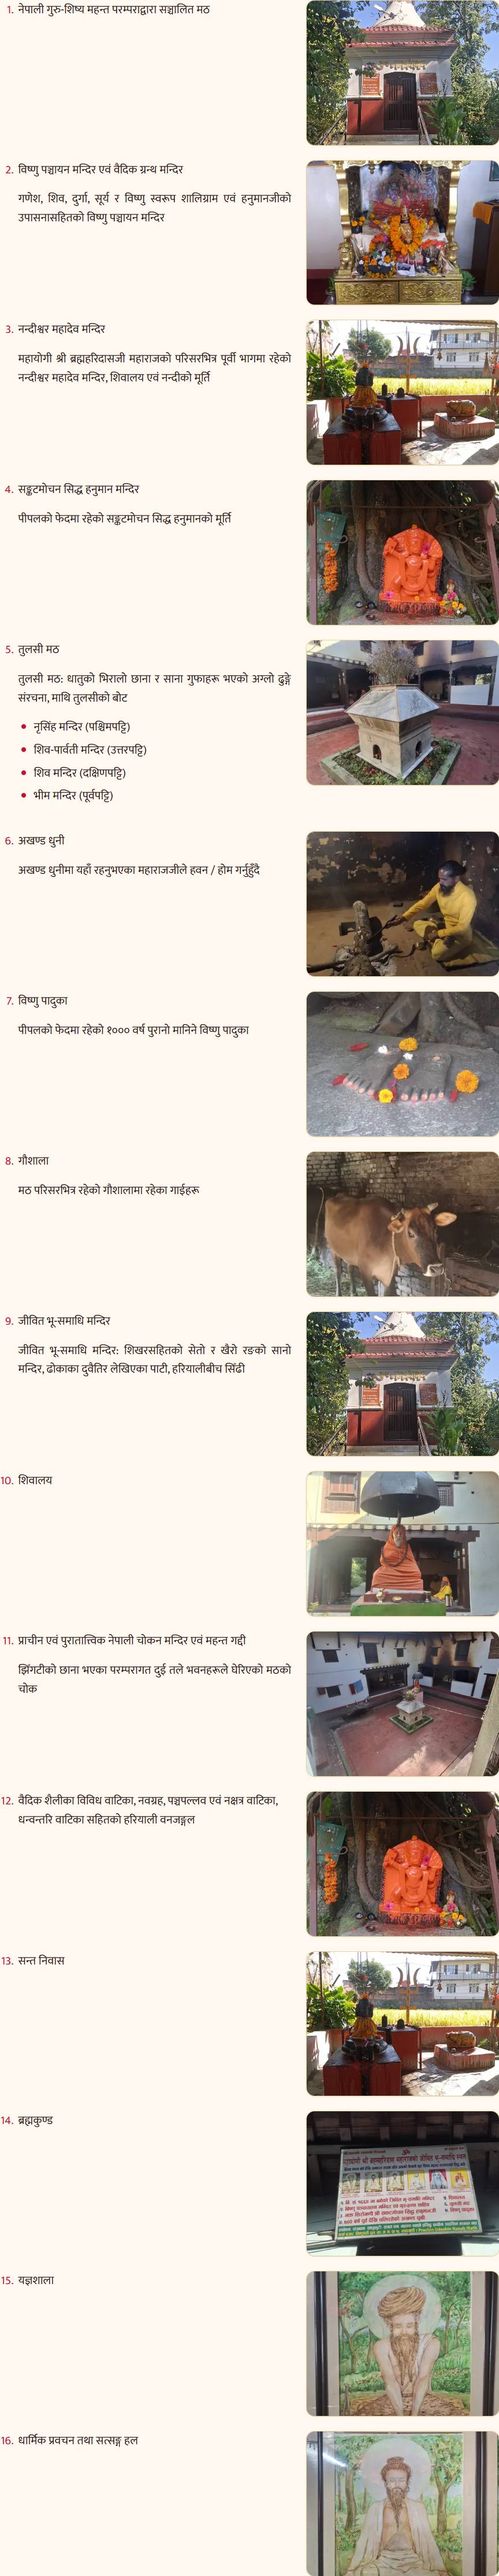
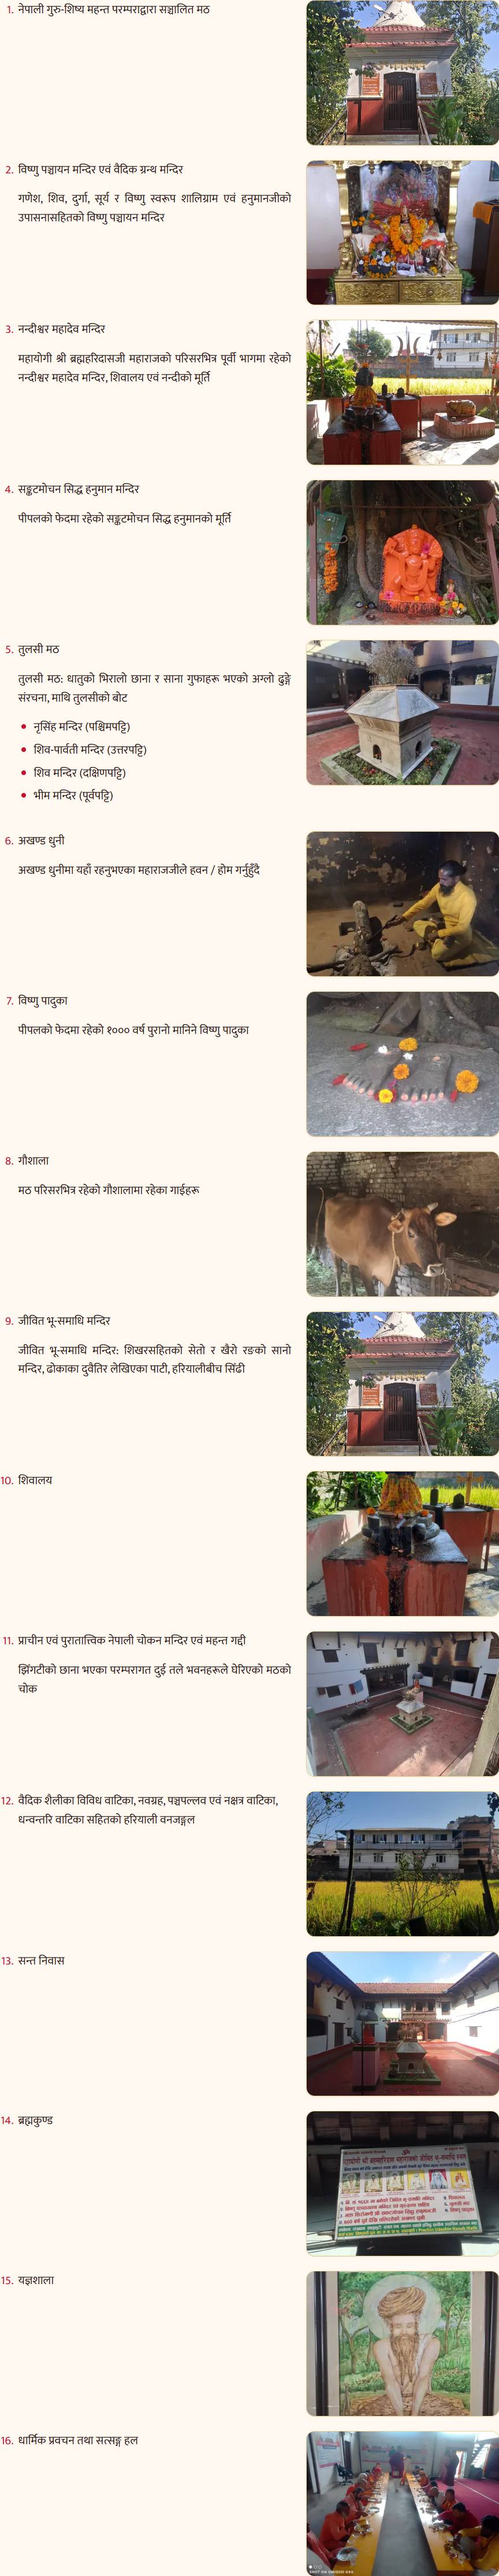
Nanak heritage list: items 10, 12, 13, 16 from the team's pictures
10 Shivalinga and trishul (new gallery photo), 12 paddy field, 13 courtyard
view, 16 bhandara: re-added to the gallery with consent from the people shown
and the photographer's permission (no credit wanted). Consent records, notes
and screenshots updated.

Changed region(s): [[0.5938, 0.6861, 1.0, 0.8109], [0.5938, 0.9356, 1.0, 1.0], [0.5938, 0.5614, 1.0, 0.6549]]

diff --git a/MISSING_INFO.md b/MISSING_INFO.md
@@ -77,7 +77,8 @@ Most of the missing Mhepi Ajima content, and all ward information, is probably i
 - [ ] **Typos in the Nepali to check (not changed):** "बुद्धिदास महाराजको तिथ" (तिथि); "वि.सं. २०८० असाेज" typed as ा+े (असोज); "वासन्तीक नवरात्र" (वासन्तिक); "विष्णु पञ्चायन" in 4 places (पञ्चायतन elsewhere); "संवर्धन  एवं" double space; "नेपाली चोकन मन्दिर" (चोक?).
 - [ ] **Photos beside "यहाँ भएका सम्पदाहरू" / "The Heritage Here"** (`content/section-photos.json`): matched by Claude using the guru's new photo descriptions. Confirm, especially item 11 (ancient Nepali chok temple and mahant gaddi → `main-courtyard`, the courtyard of the two-storey buildings) and item 2 (`gilded-shrine`, described as the Vishnu Panchayatan temple). No photo yet for items 1, 10 and 12–16.
   - [x] **Item 11 description**: turned on (17 Nov 2026) on confirmation that the courtyard photo matches "the ancient Nepali chok temple and the mahant gaddi". All nine items now show their photo's description.
-  - [x] **Items 1, 10, 12–16** (17 Nov 2026, chosen by the team from the gallery's 4-column grid): 1 samadhi temple, 10 statue of Mahant Buddhidas, 12 Hanuman shrine under the peepal tree, 13 Nandi & Shivalinga, 14 heritage signboard, 15 painting of Brahmaharidas, 16 painting of Gothalramdas, all **without** captions. Now every item has a photo. Three photos appear twice in the list (samadhi temple: 1 and 9; Hanuman shrine: 4 and 12; Nandi & Shivalinga: 3 and 13); swap them for photos of the actual places when the team has them.
+  - [x] **Items 10, 12, 13, 16 replaced (17 Nov 2026, from the team's pictures):** 10 Shivalinga and trishul (new: `shivalinga-trishul.webp`), 12 paddy field, 13 courtyard view, 16 bhandara (re-added). Nepali alt text of `shivalinga-trishul.webp` is by Claude; please check.
+  - [x] **Items 1, 10, 12–16** (superseded for 10, 12, 13, 16 by the line above) (17 Nov 2026, chosen by the team from the gallery's 4-column grid): 1 samadhi temple, 10 statue of Mahant Buddhidas, 12 Hanuman shrine under the peepal tree, 13 Nandi & Shivalinga, 14 heritage signboard, 15 painting of Brahmaharidas, 16 painting of Gothalramdas, all **without** captions. Now every item has a photo. Three photos appear twice in the list (samadhi temple: 1 and 9; Hanuman shrine: 4 and 12; Nandi & Shivalinga: 3 and 13); swap them for photos of the actual places when the team has them.
 - [ ] **Alternative name "Siddheshwar Mahadev" — needs a source.** Given by the ward team (13 Nov 2026) but not confirmed. It was removed from the chatbot topic label in the Phase 9 review and is **not shown anywhere** on the site.
   - A search of raw-data found **no occurrence** of Siddheshwar / सिद्धेश्वर (or its spelling variants) in the docx, the transcribed signboards and inscriptions, or any file name. The three web sources don't mention it either.
   - [ ] Give a source for the name (a document, signboard or interview) before it is used anywhere on the site.
@@ -100,7 +101,7 @@ Most of the missing Mhepi Ajima content, and all ward information, is probably i
   - [x] **Ward office**: about 27.7290, 85.3016 (Balaju, Kathmandu-16 on OSM). It is marked approximate in `content/ward.json` and on the map. An exact point would allow a small embedded map in the home Contact section.
 - **Ward boundary on the map:** moved to [docs/ROADMAP.md](docs/ROADMAP.md) (Later). The boundary data is still not in the raw data.
 - [x] **Photo credit line**: "Photos: Samyojan, 2026" / "तस्बिर: संयोजन, २०२६" (`content/credits.json`). It is shown on the detail pages, the gallery page and inside the lightbox.
-- [ ] **Bhandara photo**: the `IMG-*-WA*.jpg` files are WhatsApp forwards, several watermarked "SHOT ON UMIDIGI G9A", so someone outside the team took them. `bhandara.webp` (from `IMG-20261104-WA0022.jpg`) was **removed from the site** in Phase 6; the original stays in raw-data. **Re-add only with the photographer's permission and a "Photo courtesy of …" credit.** No other WhatsApp photo is published.
+- [x] **Bhandara photo — re-added 17 Nov 2026.** The team confirmed that the people shown agree and that the photographer gave permission and wants no credit line. It is back in the Nanak Math gallery and beside list item 16. Earlier note: the `IMG-*-WA*.jpg` files are WhatsApp forwards, several watermarked "SHOT ON UMIDIGI G9A", so someone outside the team took them. `bhandara.webp` (from `IMG-20261104-WA0022.jpg`) was **removed from the site** in Phase 6; the original stays in raw-data. **Re-add only with the photographer's permission and a "Photo courtesy of …" credit.** No other WhatsApp photo is published.
 - [x] **Consent decisions for people in photos**: all nine photos in `docs/photos-with-people.md` were set to `"approved"` in `content/photo-consent.json` on 12 Nov 2026 ("use photos with people"). Changing one to `"removed"` still hides it everywhere. The strict build fails if any photo is ever `"pending"` again.
   - Not used: the Mhepi team group photo (`Mhepi Ajima/Photo/20261104_085758.heic`), a team selfie (`Guru Nanak Mantha/Photo/20261104_100241.heic`), and portraits of an elderly sadhu (`IMG_20261104_095808.jpg`, `IMG_20261104_095816.jpg`, `IMG_20261104_095816_1.jpg`).
 - [ ] **Permission** from the math's mahant and the Mhepi committee to publish photos of the inner shrines

diff --git a/docs/screenshots/nanak-list-photos/README.md b/docs/screenshots/nanak-list-photos/README.md
@@ -2,24 +2,19 @@
 
 Captured on 17 Nov 2026 in Microsoft Edge from the strict `npm run build`, branch `content/nanak-list-photos`. The pictures show the list only, in EN and NE, at 375, 768 and 1440 px.
 
-Photos added from the gallery's 4-column (computer) grid, given as row, column. None of these show a caption:
+Photos added for items without one, chosen by the team. None of these show a caption:
 
-| Item | Photo | Grid position |
-|---|---|---|
-| 1. The math | samadhi temple | row 1, column 1 (first photo) |
-| 10. The Shivalaya | statue of Mahant Buddhidas | row 3, column 2 |
-| 12. Green forest and gardens | Hanuman shrine under the peepal tree | row 3, column 4 |
-| 13. Sant niwas | Nandi & Shivalinga | row 4, column 1 |
-| 14. Brahma Kunda | heritage signboard | row 4, column 2 |
-| 15. Yajnashala | painting of Brahmaharidas | row 4, column 3 |
-| 16. Satsang hall | painting of Gothalramdas | row 4, column 4 |
+| Item | Photo |
+|---|---|
+| 1. The math | samadhi temple (first gallery photo) |
+| 10. The Shivalaya | Shivalinga and trishul (new to the gallery: `shivalinga-trishul.webp`) |
+| 12. Green forest and gardens | paddy field |
+| 13. Sant niwas | courtyard view |
+| 14. Brahma Kunda | heritage signboard |
+| 15. Yajnashala | painting of Brahmaharidas |
+| 16. Satsang hall | sadhus at a shared meal (`bhandara.webp`, re-added with consent and the photographer's permission) |
 
-Items 2–9 and 11 keep their photos and captions.
-
-Three photos now appear twice in the list:
-- samadhi temple: items 1 and 9;
-- Hanuman shrine: items 4 and 12;
-- Nandi & Shivalinga: items 3 and 13.
+Items 2–9 and 11 keep their photos and captions. The samadhi temple photo appears twice in the list, for items 1 and 9.
 
 **Checks:** the strict build passes. In EN and NE at 375, 768 and 1440 px:
 - all 16 items have a photo;

diff --git a/docs/photos-with-people.md b/docs/photos-with-people.md
@@ -17,6 +17,7 @@ These are the published photos that show a person's face, checked on 12 Nov 2026
 | `nanak-math/sadhu-statue.webp` | Two people seated in the room behind the statue |
 | `nanak-math/sadhus-at-veranda.webp` | A portrait of three sadhus standing at the veranda |
 | `nanak-math/heritage-signboard.webp` | The math's signboard, which includes printed photographs of three mahants |
+| `nanak-math/bhandara.webp` | About 15 sadhus and guests eating in rows in the hall; faces visible. Re-added on 17 Nov 2026: the people and the photographer agreed |
 
 ## Checked and not marked
 
@@ -29,4 +30,4 @@ These are the published photos that show a person's face, checked on 12 Nov 2026
 
 All the other published photos show buildings, shrines, objects, plaques or animals only.
 
-The original of the removed `bhandara.webp` photo (`Guru Nanak Mantha/Photo/IMG-20261104-WA0022.jpg`) is still in raw-data; see MISSING_INFO.md.
+`bhandara.webp` (`Guru Nanak Mantha/Photo/IMG-20261104-WA0022.jpg`) was removed in Phase 6 and re-added on 17 Nov 2026 with consent and the photographer's permission (see MISSING_INFO.md).

diff --git a/content/heritage/nanak-math.ne.md b/content/heritage/nanak-math.ne.md
@@ -72,6 +72,10 @@ gallery:
     alt: "यस मठ परिसरभित्र रोपिएका लहलहाउँदै गरेका धानखेतहरू"
   - src: "/images/nanak-math/sadhus-at-veranda.webp"
     alt: "यस मठ परिसरभित्र रहने साधुहरू"
+  - src: "/images/nanak-math/shivalinga-trishul.webp"
+    alt: "मठ परिसरमा रहेको शिवलिङ्ग र त्रिशूल, पछाडि धानखेत"
+  - src: "/images/nanak-math/bhandara.webp"
+    alt: "भण्डारामा लहरै बसेर भोजन गर्दै साधुसन्त"
 ---
 
 <!-- स्रोत: raw-data "Guru Nanak Mantha/Nanak Mantha.docx" (DOCX) र स्थलमा खिचिएका पाटी/साइनबोर्डका फोटो। -->

diff --git a/content/heritage/nanak-math.en.md b/content/heritage/nanak-math.en.md
@@ -72,6 +72,10 @@ gallery:
     alt: "Flourishing paddy fields planted within the math grounds"
   - src: "/images/nanak-math/sadhus-at-veranda.webp"
     alt: "Sadhus who live within the math grounds"
+  - src: "/images/nanak-math/shivalinga-trishul.webp"
+    alt: "Shivalinga and trishul in the math grounds, with the paddy field behind"
+  - src: "/images/nanak-math/bhandara.webp"
+    alt: "Sadhus seated in rows for a shared meal (bhandara)"
 ---
 
 <!-- Sources: raw-data "Guru Nanak Mantha/Nanak Mantha.docx" (cited as DOCX) and signboards photographed on site (cited by original filename). English translated from the Nepali sources. -->
